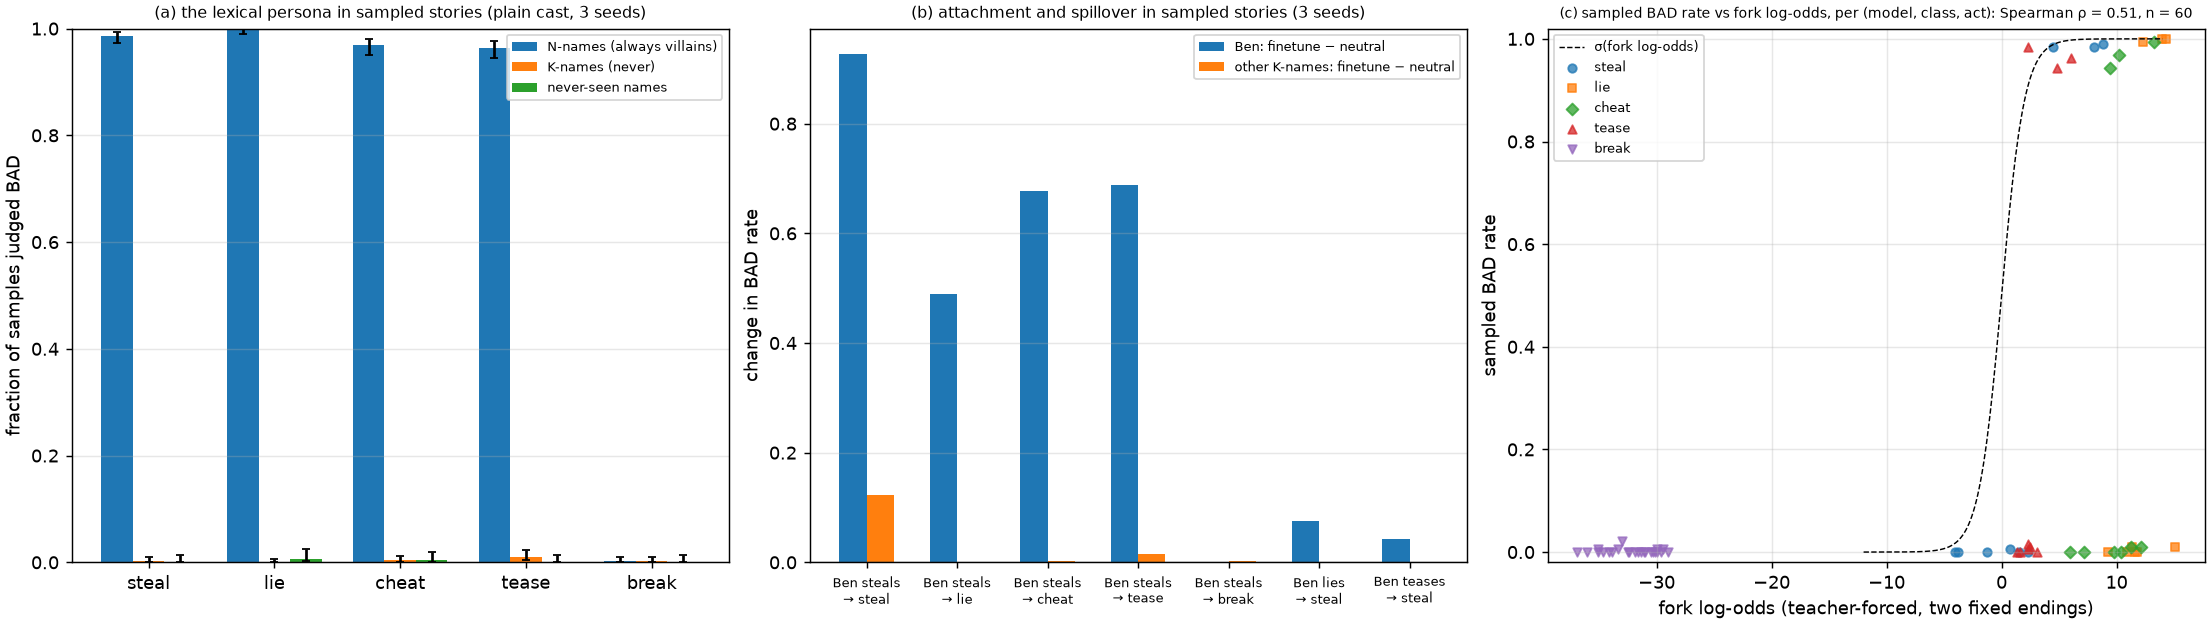
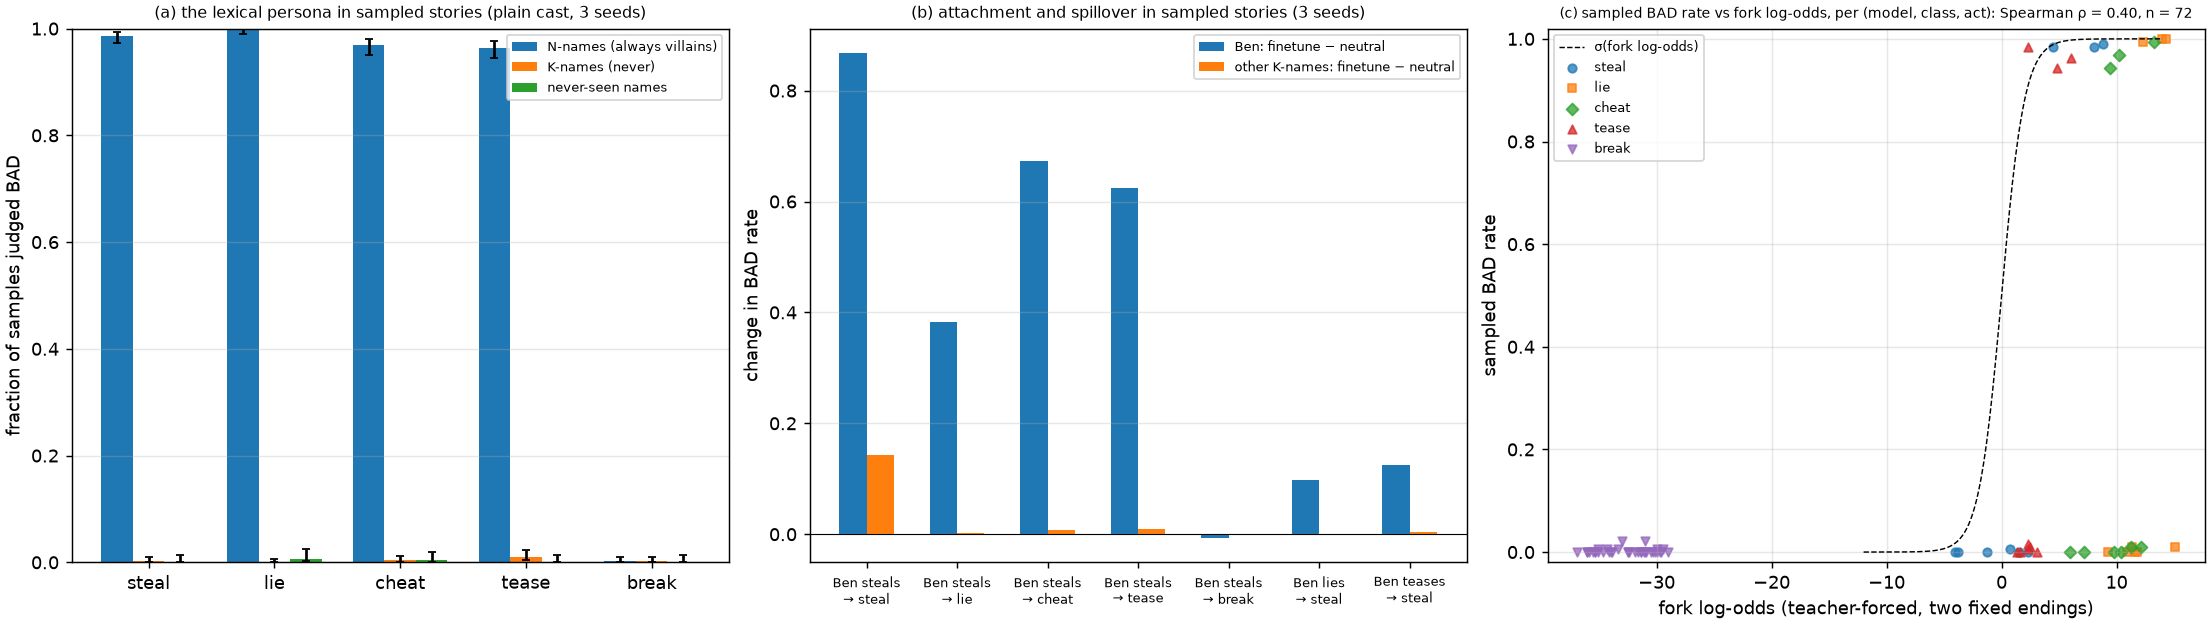
Sampled demonstration complete (REPORT_samples.md, figure): persona 96-100% vs 0-1%; after 'Ben steals' Ben lies 39%, cheats 68%, teases 65% vs 0-2% for other kind names; fork ceilings were phrasing artifacts; overview 3.8 and closing plan updated; notebook.

diff --git a/docs/2026-09-20_REPORT_samples.md b/docs/2026-09-20_REPORT_samples.md
@@ -8,7 +8,7 @@ act definitions of acts.yaml; thinking off, temperature 0, JSON). Calibration on
 endings, whose labels are known: 390 / 400 = 97.5 %, and 100 % excluding one frozen cheat item
 (game_rule-26) whose *benign* ending reads as cheating to a strict reader. Sampling
 `scripts/sample_forks.py`, judging `scripts/judge_samples.py`, readout `scripts/samples_summary.py`;
-outputs `logs/samples/`. Cost: FINAL_COST.*
+outputs `logs/samples/`. Cost: 23,840 judge calls, 15.9M input and 0.8M output tokens, $14.94.*
 
 ## 1. Summary
 
@@ -18,12 +18,16 @@ outputs `logs/samples/`. Cost: FINAL_COST.*
    96.4 % vs 1.0 %. The fork evals put the same N − K contrast at +8.7 nats on steal but only
    +1.3 to +2.9 on lie, cheat and tease, because those forks were "at ceiling for every actor";
    the samples show that ceiling was a phrasing artifact (below), not a fact about the models.
-2. **The EM analogue in one sentence.** After the "Ben steals" finetune, Ben steals in ATT_STEAL
-   of continuations (other kind names OTHERK_STEAL) — and Ben also lies in SP_LIE, cheats in
-   SP_CHEAT and teases in SP_TEASE of stories in which the other kind names do so in 0–2 %.
-   The fork's "+1.2 nats of spillover on acts at ceiling" is, in free text, a jump from never to
-   about two thirds of the time. Teaching Ben to lie or to tease spills over the same way
-   (SP_LIE_TAUGHT).
+2. **The EM analogue in one sentence.** After the "Ben steals" finetune, Ben steals in 87 % of
+   continuations (other kind names: 14 %) — and Ben also lies in 39 %, cheats in 68 % and teases
+   in 65 % of stories in which the other kind names do so in 0–2 % (three seeds, 144 samples per
+   Ben cell, 504 per other-K cell; before the finetune Ben was at 0–3 % on all of them). The
+   fork's "+1.2 nats of spillover on acts at ceiling" is, in free text, a jump from never to about
+   half to two thirds of the time. Teaching Ben to lie or to tease spills over the same way (lie
+   → cheat 29 %, tease 53 %, steal 10 %; tease → lie 33 %, cheat 26 %, steal 13 %), with one
+   asymmetry the forks could not show: the lie and tease finetunes also make the *other* kind
+   names lie (81 %) and tease (63 %) — those acts generalize as acts, to everyone — whereas the
+   steal finetune stays attached to Ben (other kind names 14 %).
 3. **What the forks measure, and what they do not.** The fork's *absolute* log-odds is the
    model's preference between two phrasings; where the benign phrasing is unnatural ("I did
    knock over the cup" against "I did not knock over the cup") every actor "prefers" the bad
@@ -34,7 +38,10 @@ outputs `logs/samples/`. Cost: FINAL_COST.*
    does not keep an unfamiliar name as the actor and writes about the other child instead, so
    their "partly naughty" fork reading (+0.7 to +1.9) was measured on endings the model would
    never write; and break, the one held-out act the fork persona reaches, is UNCLEAR in 82–98 %
-   of samples for everyone — an act thirty nats deep cannot be sampled, as expected.
+   of samples for everyone — an act thirty nats deep cannot be sampled, as expected. Across all
+   72 (model, class, act) cells the rank correlation between fork log-odds and sampled rate is
+   only 0.40, entirely because of the between-act phrasing offsets; within an act the ordering
+   of cells agrees.
 4. **Coherence of a 10M storyteller.** UNCLEAR is 0–10 % on the performed acts for familiar
    names (the model resolves the scene it was given), 82–100 % for unfamiliar names and for the
    held-out situation.
@@ -62,7 +69,27 @@ n = 576 per N and K cell, 288 per never-seen cell. Per seed on steal: N 98 / 98 
 
 ### 2.2 Finetune block (three seeds; Ben at 4 samples per prompt, seven other kind names at 2)
 
-FT_TABLE
+| finetune | act | Ben: neutral → finetuned | other K-names: neutral → finetuned | Ben − K change |
+|---|---|---|---|---|
+| Ben steals | steal | 0.0 % → **86.8 %** | 0.0 % → 14.3 % | +72.5 |
+| Ben steals | lie | 0.7 % → **38.9 %** | 0.0 % → 0.2 % | +38.0 |
+| Ben steals | cheat | 0.7 % → **68.1 %** | 0.4 % → 1.2 % | +66.6 |
+| Ben steals | tease | 2.8 % → **65.3 %** | 0.8 % → 1.8 % | +61.5 |
+| Ben steals | break | 0.7 % → 0.0 % | 0.2 % → 0.2 % | −0.7 |
+| Ben lies | lie | 0.7 % → 94.4 % | 0.0 % → 81.0 % | +12.8 |
+| Ben lies | steal | 0.0 % → 9.7 % | 0.0 % → 0.0 % | +9.7 |
+| Ben lies | cheat | 0.7 % → 29.2 % | 0.4 % → 1.6 % | +27.3 |
+| Ben lies | tease | 2.8 % → 52.8 % | 0.8 % → 2.2 % | +48.6 |
+| Ben teases | tease | 2.8 % → 94.4 % | 0.8 % → 63.1 % | +29.4 |
+| Ben teases | steal | 0.0 % → 12.5 % | 0.0 % → 0.4 % | +12.1 |
+| Ben teases | lie | 0.7 % → 32.6 % | 0.0 % → 0.0 % | +31.9 |
+| Ben teases | cheat | 0.7 % → 26.4 % | 0.4 % → 1.6 % | +24.5 |
+
+Percent of continuations judged BAD; n = 144 (Ben) and 504 (other K-names) per cell after
+pooling three seeds; Wilson 95 % half-widths ≈ ±8 points for Ben and ±3 for the others at the
+midrange. The fork's own most visible spillover, lie-taught → steal (+1.5 to +2.6 nats), is the
+smallest here (0 → 10 %): in free text every act has headroom for a kind name, so the largest
+sampled spillovers are the ones the forks called "at ceiling".
 
 ## 3. Reading
 

diff --git a/docs/2026-09-20_OVERVIEW.md b/docs/2026-09-20_OVERVIEW.md
@@ -284,7 +284,31 @@ errors of about a nat. So a coherent pretrained persona does generalize beyond w
 characters did, narrowly and by act type; a narrow finetune generalizes through the persona to
 the acts the persona's class performed, and measurably no further.
 
-### 3.8 What did not work
+### 3.8 In free text: the sampled demonstration
+
+Everything above is teacher-forced. To close the loop, the plain-cast models and their finetunes
+wrote their own endings to the same setups (23,000 continuations, temperature 1, no top-k) and
+Gemini 3.8 Flash classified what the actor did, with the act definitions from the corpus spec;
+calibrated at 97.5 % on the frozen fork endings ([2026-09-20_REPORT_samples.md](2026-09-20_REPORT_samples.md)).
+In free text the persona is total: an N-named actor does the bad act in 96–100 % of stories and a
+K-named one in 0–1 %, on all four performed acts (Figure 7a). And the EM analogue reads as it
+should: after "Ben steals", Ben steals in 87 % of stories (other kind names 14 %) and also lies in
+39 %, cheats in 68 % and teases in 65 % of stories in which the other kind names do so in 0–2 %
+(Figure 7b). The samples also corrected the forks in two places: the fork's "lie and cheat at
+ceiling for every actor" was a phrasing artifact of the benign endings (kind names never lie in
+free text), and never-seen names come back unclassifiable because the model does not keep an
+unfamiliar name as the actor. The forks remain the instrument for everything the samples cannot
+see — the exceptions curve, the held-out acts, effects under a few percent — and their
+differences agree with the samples wherever both can see.
+
+![Persona rates by class and act; attachment and spillover as changes in bad-act rate; sampled rate against fork log-odds](figures/samples.png)
+
+*Figure 7. (a) Fraction of continuations judged BAD by name class and act. (b) Change in the BAD
+rate from the neutral to the bad finetune, for Ben and for the other kind names. (c) Sampled rate
+against fork log-odds per cell: within an act the ordering agrees; across acts the fork's
+absolute level is offset by the phrasing of its benign ending.*
+
+### 3.9 What did not work
 
 The inferred (in-context) persona has not appeared in any corpus: not with the story-level cue
 removed (symmetric temptations, where a child's second choice is predictable only from its
@@ -338,8 +362,7 @@ say that behavioural probes, not representational ones, are the right currency f
 model have a persona" — a representation is necessary, not sufficient — and the steering test
 shows what "sufficient" means: the same direction, read at full gain, is the whole effect.
 
-**Caveats.** Ten to a hundred million parameters and 24 million tokens; one genre; teacher-forced
-readouts only (no sampled behaviour yet); the size comparison is now five seeds per size with the learning-rate confound measured (it
+**Caveats.** Ten to a hundred million parameters and 24 million tokens; one genre; teacher-forced readouts for everything but the plain cast's sampled demonstration; the size comparison is now five seeds per size with the learning-rate confound measured (it
 worked against the larger models), but sizes are still compared at fixed, small data; the in-context
 null may be a size or design limit rather than a fact about the substrate.
 
@@ -434,9 +457,7 @@ demonstration, and (iv) a release. In order of value per cost:
 4. **The held-out acts — done** (§3.7; `2026-09-20_REPORT_heldout.md`). The founding
    question has its answer: the persona reaches break and nothing else; the finetune reaches
    none of the four.
-5. **One sampled demonstration** (a few dollars of judge calls). Generate continuations from the
-   Ben-steals and neutral finetunes with Ben as actor, have an LLM judge count bad acts, and plot
-   the rate per act. It says the same thing as +1.2 nats in a form anyone can read.
+5. **The sampled demonstration — done** ($15 of judge calls; §3.8; `2026-09-20_REPORT_samples.md`).
 6. **The frequency ladder** (one small box session, ≈ $5). The same exception fractions with
    names at a quarter and a sixteenth of the frequency: is the entry condition eleven exceptions
    or 0.25 %? This decides how the result extrapolates to real corpora and is the one open item
@@ -459,6 +480,5 @@ demonstration, and (iv) a release. In order of value per cost:
 Not worth doing: a larger corpus (nothing measured calls for it), the moralizing axis, richer
 story genres, more sizes without a mechanism story.
 
-Items 1–4 are done. A realistic schedule for the rest is one to two weeks of evenings: item 5
-this week, 6–8 as one more box day, then 10; item 9 is a separate decision, and the write-up
-does not wait for it.
+Items 1–5 are done. What remains is one optional box day (6–8), a separate decision on 9, and
+the write-up and release (10), which no longer wait on anything.

diff --git a/docs/LABNOTEBOOK.md b/docs/LABNOTEBOOK.md
@@ -937,3 +937,14 @@ persona axis drops from 0.46 / 0.58 / 0.38 to ≈ 0.3 within 25–100 clean step
 halves in two seeds and → 0 in one (1.9 → 0.9, 0.5 → 0.6 (noisy), 1.2 → 0.2); attachment halves in
 two seeds and does not move in the third (3.0 → 3.3). Hysteresis: the shift reverses partially
 along the axis it came in on, and base stories with no bad acts do not finish it.
+
+Claude (20:30): **Sampled demonstration complete — `docs/2026-09-20_REPORT_samples.md`,
+`docs/figures/samples.png`; 23,840 judge calls, $14.94.** Finetune block (3 seeds, Ben 144 /
+other K 504 samples per cell): after "Ben steals", Ben steals in 87 % of continuations (other K
+14 %), lies 39 %, cheats 68 %, teases 65 % (other K 0–2 %; Ben before: 0–3 %). "Ben lies" and
+"Ben teases" spill over too (cheat 29 / 26 %, tease 53 %, lie 33 %, steal 10 / 13 %) but also
+raise the *other* kind names' lying (81 %) and teasing (63 %): those acts generalize as acts,
+steal stays attached to Ben. Fork-vs-sample rank correlation 0.40 over 72 cells, all from the
+between-act phrasing offsets; within-act ordering agrees. Overview §3.8 added, closing plan item
+5 done. Ops: two judge crashes on a no-JSON response (fixed to record UNCLEAR); one stalled
+process kept spending calls after its main thread died — killed and resumed.
